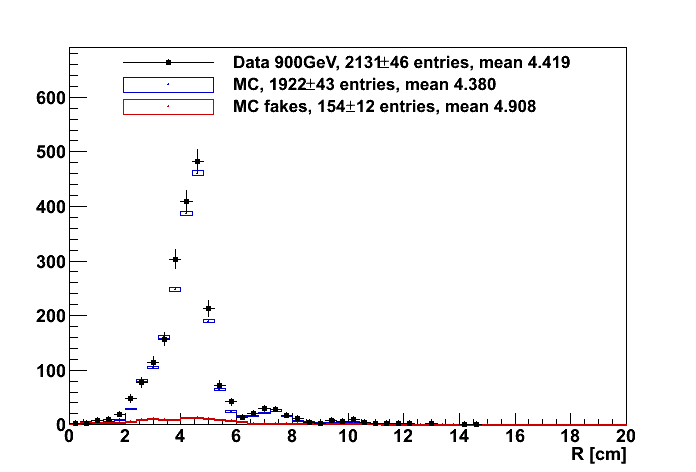
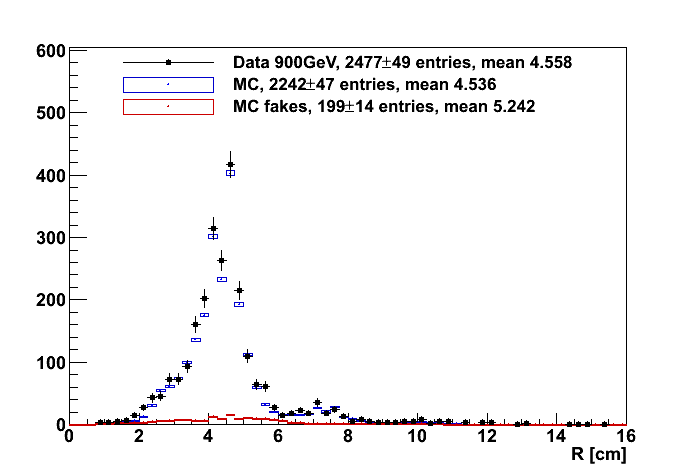
New plots and other changes

diff --git a/ConvMBnote/results.tex b/ConvMBnote/results.tex
@@ -10,32 +10,62 @@ N_{\rm reco} \propto \varepsilon \cdot \langle \frac{P}{X_0} \rangle \cdot f_{\r
 where $\varepsilon$ is the reconstruction efficiency and $\langle P/{X_0} \rangle$ is the average conversion probability ($P\sim 7/9$).
 
 The present statistics allow only the pixel barrel to be studied. 
-It is identified by choosing the following fiducial volume: $|z|<26~{\rm cm}$ and $r<15~{\rm cm}$.
-Such region is divided for convenience in four parts, corresponding to the beam pipe and the three pixel barrel layers:\\
-$1~{\rm cm}<r_{\rm BP}<3.5~{\rm cm}<r_{\rm PXL1}<6~{\rm cm}<r_{\rm PXL2}<8.4~{\rm cm}<r_{\rm PXL3}<15~{\rm cm}$. \\
-The conversion finding efficiency $\varepsilon$, estimated from MC data for each sub-region, is 2.8\%, 3.5\%, 0.5\% and 0.1\% respectively.
+It is identified by choosing the following fiducial volume: $|z|<26~{\rm cm}$ and $r$ comprised between $0.8$ and $18\cm$.
+Such region is divided for convenience into four parts corresponding to the beam pipe and the three pixel barrel layers, as detailed in Table~\ref{table:bins}.
 
-Fig.~\ref{figMBvsr} represents an uncalibrated estimation, given in arbitrary units, 
-comparing the material budget of the beam pipe and of the pixel barrel layers as a function of the radius $r$.
+
+\begin{table}[h]
+\begin{center}
+  \begin{tabular}{rccc}
+    Label & $r_{\rm min}$ [$\cm$] & $r_{\rm max}$ [$\cm$] & Efficiency \\  
+\hline
+BP & 0.8 & 3.2 & 2.7\% \\
+PXL1 & 3.2 & 6.0   & 3.5\% \\
+PXL2 & 6.0 & 8.8 & 0.5\% \\
+PXL3 & 8.8 & 18.0  & 0.1\% \\
+  \end{tabular}
+  \caption{Parameters and conversion reconstruction efficiency of the four regions of the pixel barrel volume corresponding to the beam pipe and the three pixel barrel layers, respectively.}
+\label{table:bins}
+\end{center}
+\end{table}
+
+
+%$1~{\rm cm}<r_{\rm BP}<3.5~{\rm cm}<r_{\rm PXL1}<6~{\rm cm}<r_{\rm PXL2}<8.4~{\rm cm}<r_{\rm PXL3}<15~{\rm cm}$. \\
+
+The conversion finding efficiency $\varepsilon$, estimated from MC data for each sub-region, is also reported in Table~\ref{table:bins}.
+%%2.8\%, 3.5\%, 0.5\% and 0.1\% respectively.
+
+Figure~\ref{figMBvsr} represents an uncalibrated estimation, given in arbitrary units, 
+comparing the material budget of the beam pipe and of the pixel barrel layers as a function of the radius $r$. The bin width is $0.2\cm$.
 The correction factor $f^{r, z}_{\rm geom}$ is given by Eq.~\ref{eq:13}.
-The green line shows the case of ideal resolution and efficiency, corrected for $f_{\rm geom}$.
-Blue boxes represent MC pseudo data and black dots data; they are both corrected for $\varepsilon$ and $f_{\rm geom}$.
+The green line shows the case of ideal resolution and efficiency, corrected for $f^{r, z}_{\rm geom}$.
+Blue boxes represent MC pseudo data and black dots data; they are both corrected for $\varepsilon$ and $f^{r, z}_{\rm geom}$.
 The conversion radius in data is computed with respect to the pixel center $(-0.1475\cm, -0.3782\cm, -0.4847\cm)$, 
 as estimated from tracker alignment algorithms. 
 The expected fake contribution, shown in red boxes, is not subtracted. 
 Data show a good agreement with MC, both in shapes and in the overall number of entries.
-The third pixel layer bin is dominated by statistical fluctuations and the high background contribution.
 
 \begin{figure}[!htbp]
  \begin{center}
    \includegraphics[width=\textwidth]{rPlot.png}
  \end{center}
- \caption{Uncalibrated material budget vs. radius.}
+ \caption{Uncalibrated material budget vs. radius; bin width equal to $0.2\cm$.}
 \label{figMBvsr}
 \end{figure}
 
-Fig.~\ref{xyPlot} and Fig.~\ref{zrPlot} show the comparison in the $x$$-$$y$ and $z$$-$$r$ planes respectively, where the grey density 
-gives an estimate of the amount of material in bins of size $0.25~cm\times0.25~cm$. 
+Statistical fluctuations dominates the region of the third pixel layer in Fig.~\ref{figMBvsr}. The same plot done with a bin width of $0.4\cm$, shown in Fig.~\ref{figMBvsr_coarse}, allows a better reading of the third pixel layer region that is anyhow characterised by a large background contribution. 
+
+\begin{figure}[!htbp]
+ \begin{center}
+   \includegraphics[width=\textwidth]{rPlot_coarse.png}
+ \end{center}
+ \caption{Uncalibrated material budget vs. radius; bin width equal to $0.4\cm$.}
+\label{figMBvsr_coarse}
+\end{figure}
+
+
+Figure~\ref{xyPlot} and Figure~\ref{zrPlot} show the comparison in the $x$$-$$y$ and $z$$-$$r$ planes respectively, where the grey density 
+gives an estimate of the amount of material in bins of size $0.25\cm\times0.25\cm$. 
 The material in the $x$$-$$y$ plane is computed using the correction factor $f^{x, y}_{\rm geom}$ defined in Eq.~\ref{eq:15}.
 The low statistics of reconstructed photon conversions does not allow a quantitative comparison of the results from data yet.
 

diff --git a/ConvMBnote/dataVsMc.tex b/ConvMBnote/dataVsMc.tex
@@ -12,7 +12,7 @@ efficiency:
 \item tracks with at least 4 hits;
 \item track $d_0\cdot q > 0.1\cm$;
 \item track pair opening angle on X-Y plane $\Delta\phi<0.2$;
-\item reconstructed conversion vertex radius $r<15\cm$;
+\item reconstructed conversion vertex radius comprised in the region between $0.8$ and $18\cm$;
 \item reconstructed conversion vertex longitudinal position $|z|< 26\cm$;
 \item reconstructed transverse momentum of the converted photon $p_T<5\GeV$.
 \end{itemize}
@@ -37,16 +37,16 @@ Likely the main reason for this effect is the current tracking configuration whe
 \subfigure[]{
 \centering
 \label{efficpurity_vs_r}
-\includegraphics[width=.45\textwidth]{efficpurity_vs_r.pdf}}
+\includegraphics[width=.49\textwidth]{efficpurity_vs_r.pdf}}
 \subfigure[]{
 \centering
 \label{efficpurity_vs_pt}
-\includegraphics[width=.45\textwidth]{efficpurity_vs_pt.pdf}}
+\includegraphics[width=.49\textwidth]{efficpurity_vs_pt.pdf}}
 \caption{Efficiency (blue) and purity (red) of the Tracker-only conversion finding algorithm: \subref{efficpurity_vs_r} as a function of $r$; \subref{efficpurity_vs_pt} as a function of $p_T$.}
 \label{efficpurity}
 \end{figure}
 
-Data versus Monte Carlo simulation comparison has been done on some basic distributions to check the conversion finding algorithm performances with first collision data. The distributions of the reconstructed transverse momentum ($p_T$) and of the pseudo-rapidity ($\eta$) of the converted photon are shown in Fig. ~\ref{fig:pt} and Fig.~\ref{fig:eta}, respectively. The radius of the conversion vertex ($r$) distribution is shown in Fig.~\ref{fig:r}. 
+Data versus Monte Carlo simulation comparison has been done on some basic distributions to check the conversion finding algorithm performances with first collision data. The distributions of the reconstructed transverse momentum ($p^{\gamma}_T$) and of the pseudo-rapidity ($\eta^\gamma$) of the converted photon are shown in Fig. ~\ref{fig:pt} and Fig.~\ref{fig:eta}, respectively. The radius of the conversion vertex ($r$) distribution is shown in Fig.~\ref{fig:r}. 
 
 All distributions, given either in linear and in logarithmic scale, result in a pretty good agreement between data and Monte Carlo as far as the shapes are concerned. The overall number of conversions candidates is $\sim10\%$ higher in data with respect to the Monte Carlo simulation. Such small discrepancy is acceptable for the sake of the present preliminary study. It could be due, among several effects, to differences between data and simulation in the number of fakes or at the level of the photon flux.
 \begin{figure}[!hbtp]
@@ -57,7 +57,7 @@ All distributions, given either in linear and in logarithmic scale, result in a 
 \subfigure[]{
 \label{subfig:pt_log}
 \includegraphics[width=.49\textwidth]{pt_log.png}}
-\caption{Distribution of the reconstructed tranverse momentum ($p_T$) of the converted photon in linear~\subref{subfig:pt_lin} and logarithmic~\subref{subfig:pt_log} scale. Data is shown in black dots and Monte Carlo  simulation in blue boxes. Red boxes represent the estimated fake contribution.}
+\caption{Distribution of the reconstructed tranverse momentum ($p^{\gamma}_T$) of the converted photon in linear~\subref{subfig:pt_lin} and logarithmic~\subref{subfig:pt_log} scale. Data is shown in black dots and Monte Carlo  simulation in blue boxes. Red boxes represent the estimated fake contribution.}
 \label{fig:pt}
 \end{figure}
 
@@ -69,7 +69,7 @@ All distributions, given either in linear and in logarithmic scale, result in a 
 \subfigure[]{
 \label{subfig:eta_log}
 \includegraphics[width=.49\textwidth]{eta_log.png}}
-\caption{Distribution of the reconstructed pseudorapidity ($\eta$) of the converted photon in linear~\subref{subfig:eta_lin} and logarithmic~\subref{subfig:eta_log} scale. Data is shown in black dots and Monte Carlo  simulation in blue boxes. Red boxes represent the estimated fake contribution.}
+\caption{Distribution of the reconstructed pseudorapidity ($\eta^\gamma$) of the converted photon in linear~\subref{subfig:eta_lin} and logarithmic~\subref{subfig:eta_log} scale. Data is shown in black dots and Monte Carlo  simulation in blue boxes. Red boxes represent the estimated fake contribution.}
 \label{fig:eta}
 \end{figure}
 

diff --git a/ConvMBnote/correctionFactors.tex b/ConvMBnote/correctionFactors.tex
@@ -303,7 +303,7 @@ N_{\rm conv} & = k
 \frac{P}{X_0} \int_{x_1}^{x_2} \int_{y_1}^{y_2} dx \, dy \left. \frac{1}{r} \ln \left( 2\sqrt{r^2+z^2} + 2z \right) \right|_{z_1}^{z_2} \\
 & = k \frac{P}{X_0} \int_{x_1}^{x_2} \int_{y_1}^{y_2} dx \, dy  \ln \frac{\sqrt{r^2+{z_2}^2} + z_2}{\sqrt{r^2+{z_1}^2} + z_1} ,
 \end{split}
-\label{eq:15}
+\label{eq:15pre}
 \end{equation}
 where $r=\sqrt{x^2+y^2}$. If $r\gg |x_2-x_1|$ and $r\gg |y_2
 - y_1|$, a likely sufficient approximate
@@ -317,7 +317,7 @@ N_{\rm conv} & = k
 \label{eq:15}
 \end{equation}
 where $\overline{r}$ is the ``average'' radius, i.e. the one taken on
-the middle of the ``box'', $\overline{r}=\nicefrac{1}{2}\sqrt{(x_1+x_2)^2+(y_1+y_2)^2}$
+the middle of the ``box'', $\overline{r}=\nicefrac{1}{2}\sqrt{(x_1+x_2)^2+(y_1+y_2)^2}$.
 %$\overline{r}=\sqrt{\nicefrac{(x_1+x_2)^2}{4}+\nicefrac{(y_1+y_2)^2}{4}}$.
 \end{description}
 
